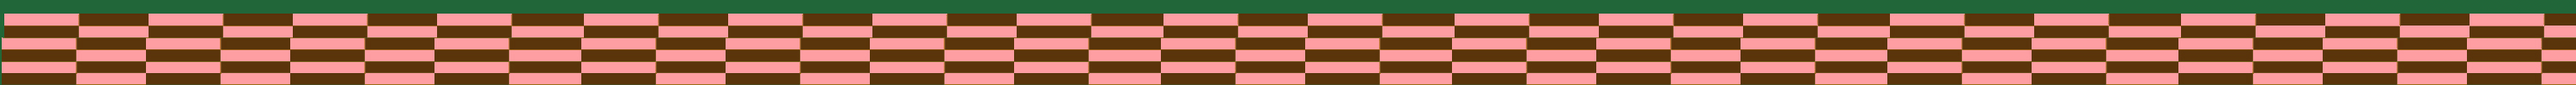
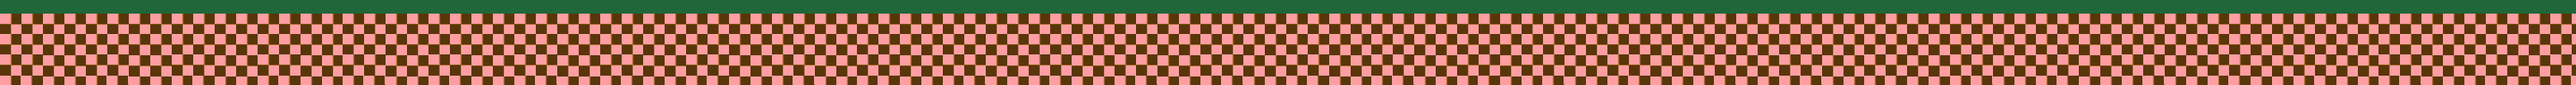
Added end event
Still need to create a better environment and add a fade out and start screen, but much closer to an end result.

diff --git a/sketch.js b/sketch.js
@@ -1,127 +1,248 @@
+//background edited from a creative commons, useable with modification pixel art background found in a database without an author
+//future iterations will include my own background, some foreground objects, and more aesthetically pleasing text
+//the final iteration will include an additional end event involving sitting on the ledge. Other animations may be included.
+
+
+//vessels for sprites
 var player;
 var platform;
+var endtext;
+var bgimage1, bgimage2, bgimage3, bgimage4;
 
-var gravity = 0.0875
-var jump = -4;
+//mechanic variable
+var overlap;
+var endsit;
 
-var grounded = false;
+//number variables, useful for debugging
+var gravity;
+var jump;
+var walkspeed;
 
-var counter = frameCount;
+//sprites to load
+var bgimage;
+var floorimage;
+var textimage;
 
+//width and height of total game
+var scene_width = (960 * 4);
+var scene_height = 600;
 
-function setup() {
-  createCanvas(window.innerWidth, window.innerHeight);
-  player = createSprite(((window.innerWidth)/2), (((window.innerHeight)/2) - 100), 64, 64);
-  console.log("I made a player!");
+//music variables
+var osc;
+var sequence = [59, 64, 61, 64, 66, 64, 66, 71];
+var step = 0;
+var echo;
+
+function preload() {
+	
+	//load the images immediately
+	floorimage = loadImage("assets/floor.jpg");
+  bgimage = loadImage("assets/game-background-2.jpg");
+  textimage = loadImage("assets/text.png");
+  
+  //backgrounds loaded first to push them farthest back
+  bgimage1 = createSprite(0, 0, 960, 600);
+  bgimage1.addImage(bgimage);
+  bgimage2 = createSprite(960, 0, 960, 600);
+  bgimage2.addImage(bgimage);
+  bgimage3 = createSprite(1920, 0, 960, 600);
+  bgimage3.addImage(bgimage);
+  bgimage4 = createSprite(2880, 0, 960, 600);
+  bgimage4.addImage(bgimage);
+  
+  //player loaded second to appear in front of background
+  player = createSprite(600, 300, 64, 64);
+  player.setCollider(0, 0, 56, 56);
+  
+  //platform loaded last to ensure it appears "above" any other sprites
+  platform = createSprite(1500, 550, 2975, 75);
+  platform.setCollider(-100, 0, 2975, 75);
+  platform.addImage(floorimage);
+  
+  //player animations loaded
   player.addAnimation("standing", "assets/charwalk0000.png");
-  console.log("I made the standing image!");
   player.addAnimation("walking", "assets/charwalk0000.png", "assets/charwalk0011.png");
-  console.log("I made the walking animation!");
   player.addAnimation("jumpstart", "assets/charjumpstart.png");
-  console.log("I made the start of jump animation!");
   player.addAnimation("jumpup", "assets/charjumpup0000.png", "assets/charjumpup0001.png");
-  console.log("I made the jumping up animation!");
   player.addAnimation("jumppeak", "assets/charjumppeak0000.png", "assets/charjumppeak0002.png");
-  console.log("I made the peak of the jump animation!");
   player.addAnimation("jumpfall", "assets/charjumpfall0000.png", "assets/charjumpfall0001.png");
-  console.log("I made the falling down animation!");
   player.addAnimation("lookup00", "assets/charlookup0000.png");
   player.addAnimation("lookup01", "assets/charlookup0001.png");
   player.addAnimation("lookup02", "assets/charlookup0002.png");
-  player.addAnimation("lookdown00", "assets/charlookdown0000.png");
+  player.addAnimation("lookdowntotal", "assets/charlookdown0000.png", "assets/charlookdown0000.png", "assets/charlookdown0000.png", "assets/charlookdown0000.png", "assets/charlookdown0000.png", "assets/charlookdown0001.png", "assets/charlookdown0001.png", "assets/charlookdown0001.png", "assets/charlookdown0001.png", "assets/charlookdown0001.png", "assets/charlookdown0002.png", "assets/charlookdown0002.png", "assets/charlookdown0002.png", "assets/charlookdown0002.png", "assets/charlookdown0002.png", "assets/charlookdown0003.png", "assets/charlookdown0003.png", "assets/charlookdown0003.png", "assets/charlookdown0003.png", "assets/charlookdown0003.png", "assets/charlookdown0004.png", "assets/charlookdown0004.png", "assets/charlookdown0004.png", "assets/charlookdown0004.png", "assets/charlookdown0004.png");
+  player.addAnimation("lookdown00", "assets/charlookdown0000.png")
   player.addAnimation("lookdown01", "assets/charlookdown0001.png");
   player.addAnimation("lookdown02", "assets/charlookdown0002.png");
   player.addAnimation("lookdown03", "assets/charlookdown0003.png");
   player.addAnimation("lookdown04", "assets/charlookdown0004.png");
+  player.addAnimation("sitatend", "assets/charlookdown0005.png");
   
-  player.setCollider("rectangle", 0, 0, 56, 56);
+  //text loaded last and modified using depth property
+  endtext = createSprite(2960, 200, 800, 600);
+  endtext.addImage(textimage);
+  endtext.depth = -5;
+ 
+}
+
+function setup() {
+  createCanvas(960, 600);
   
-  platform = createSprite(((window.innerWidth)/2), ((window.innerHeight)/2), 800, 100);
-  platform.setCollider("rectangle", 0, 0, 800, 100);
+  //initialize the number-based variables
+  jump = -4;
+  gravity = .0875;
+  walkspeed = 1.5;
+  endsit = false;
+  
+  //initialize the p5 oscillator
+  osc = new p5.Oscillator();
+  osc.setType('triangle');
+  osc.freq(240);
+  osc.amp(0);
+  osc.start();
+  
+  //initialize an echo
+  echo = new p5.Delay();
+  echo.process(osc, .8, 0.75, 1500);
 }
 
 function draw() {
-	background(255);
-	checkIt();
-	
-	drawSprites();
-	
+
+	//make the music continue in time
+	osc.amp(0.075);
+  osc.freq(midiToFreq(sequence[step]));
+  if(frameCount % 80 === 0) step = ((step + 1) % sequence.length);
+  
+  //make a transparent background
+  background(0, 0);
+  
+  //have the program check for motion
+  preCheck();
+  
+  //update the sprites
+  drawSprites();
+  
+  //manage the camera position
+  cameraCheck();
+  
 }
 
-function checkIt() {
-	collisionCheck();
-	keyCheckX();
-	keyCheckY();
-	groundedCheck();
-}
-
-function collisionCheck() {
-	if (player.collide(platform)) {
-		player.velocity.y = 0;
-		grounded = true;
+function cameraCheck() {
+	if(player.position.x > 450 && player.position.x < 2850) {
+		camera.position.x = player.position.x;
 	}
-	
+  if(player.position.x < 0) player.position.x = 0;
+  if(player.position.x >= 2800) {
+  	endtext.depth = 5;
+  }
+}
+
+function preCheck() {
+	if (player.position.x < 2800 && 400 < player.position.y < 500) checkIt();
+	else if (player.position.x < 2950 && player.position.x >= 2800) checkWalk();
+	else if (player.position.x >= 2950) endGame();
+}
+
+
+function checkWalk() {
+	overlap = player.overlap(platform);
+	if (overlap === true && player.position.y < 500 && player.position.y > 400) {
+		player.velocity.y = 0;
+		keyCheckX();
+		walk();
+	}
 	else {
 		player.velocity.y += gravity;
-		grounded = false;
+		keyCheckX();
+		floating();
 	}
+}
+function checkIt() {
+	//determines whether the player will be walking or flying based upon its overlap with the platform
+  overlap = player.overlap(platform);
+  if (overlap === true && player.position.y < 500 && player.position.y > 400) {
+    player.velocity.y = 0;
+    keyCheckX();
+    keyCheckY();
+    walk();
+  }
+  else {
+    player.velocity.y += gravity;
+    keyCheckX();
+    keyCheckY();
+    floating();
+  }
+}
+
+function endGame() {
+	gravity = 0;
+	if (player.position.x < 2993) {
+		player.changeAnimation("walking");
+		player.setSpeed(0.5, 0);
+	}
+	if(player.position.x >= 2993) {
+		player.setSpeed(0, 0);
+		player.depth = 10
+		player.position.y = 480;
+		endSit()
+	}
+}
+
+function endSit() {
+	player.changeAnimation("lookdowntotal");
+	player.changeAnimation("sitatend");
 }
 
 function keyCheckX() {
-	if (keyIsDown(RIGHT_ARROW)) {
-		player.mirrorX(1);
-		player.velocity.x = 1.25;
-			if (grounded) {
-				player.changeAnimation("walking");
-			}
-	} 
-	else if (keyIsDown(LEFT_ARROW)) { 
-		player.mirrorX(-1);
-		player.velocity.x = -1.25;
-			if (grounded) {
-				player.changeAnimation("walking");
-			}
-	}
-	else {
-		player.velocity.x = 0;
-		if (grounded) {
-			player.changeAnimation("standing");
-		}
-	}
+  if (keyIsDown(RIGHT_ARROW)) {
+    player.mirrorX(1);
+    player.velocity.x = walkspeed;
+  }
+  else if (keyIsDown(LEFT_ARROW)) {
+    player.mirrorX(-1);
+    player.velocity.x = -walkspeed;
+  }
+  else {
+    player.velocity.x = 0;
+  }
 }
 
 function keyCheckY() {
-	if (keyIsDown(32)) {
-		if (grounded) {
-			charJump();
-		}
-	}
+	
+	//This function prevents a player from jumping while in the air
+  if (keyIsDown(UP_ARROW)) {
+    if (player.velocity.y === 0) {
+      player.velocity.y += jump;
+    }
+  }
 }
 
-function charJump() {
-			player.velocity.y = jump;
-			grounded = false;
+function walk() {
+	
+	//These statements change the player animation when on the ground
+  if (player.velocity.x == -walkspeed) {
+    player.changeAnimation("walking");
+  }
+  else if (player.velocity.x == walkspeed) {
+    player.changeAnimation("walking");
+  }
+  else {
+    player.changeAnimation("standing");
+  }
 }
 
-function groundedCheck() {
-	if (grounded === false) {
-		if (0 > player.velocity.y || player.velocity.y > 0.0875) {
-			jumpAnimationCheck();
-		}
-	}
-}
-
-function jumpAnimationCheck() {
-	if (jump <= player.velocity.y && player.velocity.y < -3.8) {
-		player.changeAnimation('jumpstart');
-	}
-	else if (-3.8 <= player.velocity.y && player.velocity.y < -0.2) {
-		player.changeAnimation('jumpup');
-	}
-	else if (-0.2 <= player.velocity.y && player.velocity.y < 0.2) {
-		player.changeAnimation('jumppeak');
-	}
-	else if (0.2 <= player.velocity.y) {
-		player.changeAnimation('jumpfall');
-	}
+function floating() {
+	
+	//These statements change the player animation when in the air
+  if (jump <= player.velocity.y && player.velocity.y < -3.8) {
+    player.changeAnimation('jumpstart');
+  }
+  else if (-3.8 <= player.velocity.y && player.velocity.y < -0.2) {
+    player.changeAnimation('jumpup');
+  }
+  else if (-0.2 <= player.velocity.y && player.velocity.y < 0.2) {
+    player.changeAnimation('jumppeak');
+  }
+  else if (0.2 <= player.velocity.y) {
+    player.changeAnimation('jumpfall');
+  }
 }

diff --git a/index.html b/index.html
@@ -9,7 +9,7 @@
     <script src="libraries/p5.sound.js" type="text/javascript"></script>
     <script src="libraries/p5.play.js" type="text/javascript"></script>
 
-    <script src="newsketch.js" type="text/javascript"></script>
+    <script src="sketch.js" type="text/javascript"></script>
 
     <style> body {padding: 0; margin: 0;} canvas {vertical-align: top;} </style>
   </head>
